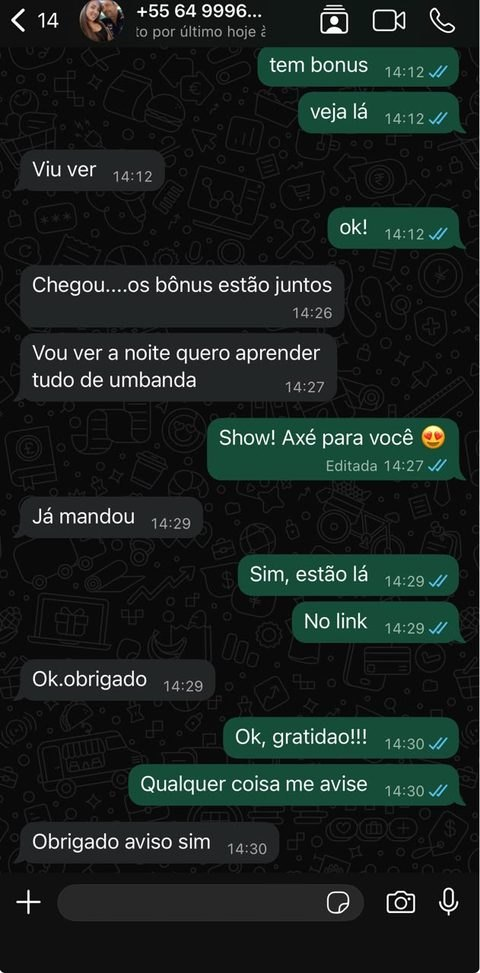
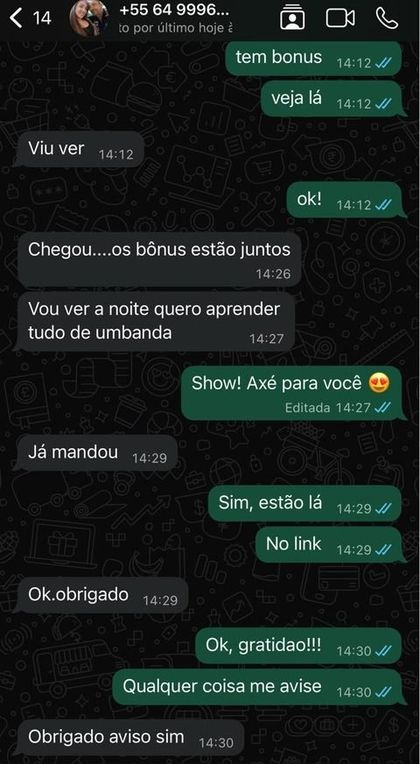
Tira o carrossel repetido, encolhe os prints e liga a foto do rodapé
Os depoimentos apareciam na tela de resultado e de novo na tela seguinte,
embaixo do vídeo. Ficam só embaixo do vídeo, que foi onde se pediu.

Os prints ocupavam cerca de 730 px de altura cada e dominavam a tela.
Foram cortados no topo e na base (barra de status e barra de digitação,
corte contíguo, nada do meio da conversa saiu) e reduzidos para 420 px de
largura: 1,35 MB -> 159 KB. Na página passam a ter altura fixa de 340 px,
o que também deixa todos os slides do mesmo tamanho; o slide caiu de
~730 px para ~390 px.

Como a imagem menor sacrifica leitura, tocar no print abre a conversa em
tela cheia, com fechamento por toque, pelo × ou por Esc.

A foto do rodapé entrou: recorte quadrado no rosto, 200x200, 15 KB, a
partir do arquivo enviado (que veio duplicado; ficou só a versão tratada).
O avatar neutro segue como reserva caso o arquivo suma.

Claude-Session: https://claude.ai/code/session_01ULSshYHbGJui3qnXqbsBW1

diff --git a/index.html b/index.html
@@ -34,7 +34,7 @@
 
     // Foto do rodapé. Coloque o arquivo em img/ e confira o nome aqui.
     // Se não existir, entra um avatar neutro no lugar.
-    FOTO_AUTORA: "img/helena.png",
+    FOTO_AUTORA: "img/helena.jpg",
 
     // Vídeo de prévia do app, hospedado no próprio projeto (pasta video/).
     VIDEO_APP: "video/app-mapa-mental.mp4",
@@ -334,9 +334,19 @@
   .car-track::-webkit-scrollbar{display:none}
   .car-item{flex:0 0 100%;min-width:0;scroll-snap-align:start}
   .car-item .testi{margin-bottom:0}
+  /* altura fixa deixa todos os slides do mesmo tamanho; o print inteiro
+     abre em tela cheia ao toque, então nada fica ilegível */
   .car-print{background:var(--surface);border:1px solid var(--line);border-radius:14px;
-    overflow:hidden;box-shadow:var(--shadow-sm)}
-  .car-print img{width:100%;display:block}
+    overflow:hidden;box-shadow:var(--shadow-sm);width:fit-content;max-width:100%;
+    margin:0 auto;position:relative;cursor:zoom-in}
+  .car-print img{display:block;max-height:340px;width:auto;max-width:100%}
+  .car-hint{text-align:center;font-size:11px;color:var(--faint);font-weight:700;margin:4px 0 0;opacity:.85}
+  .lbox{position:fixed;inset:0;z-index:60;background:rgba(0,0,0,.92);display:flex;
+    align-items:center;justify-content:center;padding:16px;cursor:zoom-out}
+  .lbox img{max-width:100%;max-height:100%;border-radius:10px;display:block}
+  .lbox-x{position:absolute;top:12px;right:14px;width:38px;height:38px;border-radius:50%;
+    border:none;background:rgba(255,255,255,.18);color:#fff;font-size:19px;font-weight:900;
+    cursor:pointer;line-height:1;padding:0}
   .car-cap{text-align:center;font-size:12.5px;color:var(--faint);font-weight:700;margin:8px 0 0}
   .car-dots{display:flex;gap:7px;justify-content:center;align-items:center;margin-top:11px}
   .car-dot{width:8px;height:8px;padding:0;border:none;border-radius:50%;background:var(--line);
@@ -647,7 +657,8 @@
         inner='<div class="car-print"><img src="'+esc(d.print)+'" loading="lazy"'+
           ' alt="Depoimento de '+esc(d.nome||"aluno")+' em '+esc(d.local||"mensagem")+'"></div>'+
           (d.texto?testiCard(d,true):"")+
-          (d.nome?'<p class="car-cap">'+esc(d.nome)+(d.local?' · '+esc(d.local):'')+'</p>':"");
+          (d.nome?'<p class="car-cap">'+esc(d.nome)+(d.local?' · '+esc(d.local):'')+'</p>':"")+
+          '<p class="car-hint">🔍 toque para ampliar</p>';
       } else {
         inner=testiCard(d,false);
       }
@@ -663,9 +674,31 @@
       '<div class="carousel"><div class="car-track" id="carTrack">'+slides+'</div>'+nav+'</div></div>';
   }
 
+  // print em tela cheia, para quem quiser ler a conversa toda
+  function abrirLightbox(src,alt){
+    var box=document.createElement("div");
+    box.className="lbox";
+    box.innerHTML='<button class="lbox-x" aria-label="Fechar">×</button>'+
+      '<img src="'+esc(src)+'" alt="'+esc(alt)+'">';
+    function fechar(){ if(box.parentNode) box.parentNode.removeChild(box);
+      document.removeEventListener("keydown",aoTeclar); }
+    function aoTeclar(e){ if(e.key==="Escape") fechar(); }
+    box.addEventListener("click",fechar);
+    document.addEventListener("keydown",aoTeclar);
+    document.body.appendChild(box);
+  }
+
   function initCarrossel(){
     var track=document.getElementById("carTrack"); if(!track) return;
     var wrap=track.parentNode;
+
+    [].slice.call(track.querySelectorAll(".car-print")).forEach(function(pr){
+      pr.addEventListener("click",function(e){
+        e.stopPropagation();
+        var im=pr.querySelector("img"); if(!im) return;
+        abrirLightbox(im.getAttribute("src"), im.getAttribute("alt")||"");
+      });
+    });
 
     // print que não carrega dá lugar ao depoimento em texto
     [].slice.call(track.querySelectorAll(".car-print img")).forEach(function(im){
@@ -673,7 +706,8 @@
         var item=im.closest(".car-item"); if(!item) return;
         var pr=item.querySelector(".car-print"), tx=item.querySelector(".testi");
         if(pr) pr.style.display="none";
-        var cap=item.querySelector(".car-cap");
+        var cap=item.querySelector(".car-cap"), hint=item.querySelector(".car-hint");
+        if(hint) hint.style.display="none";
         if(tx){ tx.style.display=""; if(cap) cap.style.display="none"; }
         else item.style.display="none";
       }
@@ -863,11 +897,10 @@
       '<p class="lead">'+state.tier.d+'</p>'+
       mirrorText()+
       diagnostico()+
-      proof("Quem já está estudando com o material")+
+      // sem depoimentos aqui: eles aparecem na tela seguinte, embaixo do vídeo
       guideLine("Preparei o caminho ideal para o seu perfil...")+
       '<button class="btn btn-gold pulse-cta" data-act="next">Quero chegar ao próximo nível <span aria-hidden="true">→</span></button>'+
       '</div>';
-    initCarrossel();
     var target=state.displayScore;
     var ring=document.getElementById("ring");
     var numEl=document.getElementById("scoreNum");

diff --git a/MIDIA.md b/MIDIA.md
@@ -5,16 +5,25 @@ Todos os caminhos são configurados no bloco `QUIZ_CONFIG`, no topo do `index.ht
 
 ---
 
-## 1. Arquivos que FALTAM no repositório
+## 1. Arquivos locais ✅
 
-Estes dois são chamados pelo código mas não existem aqui. Precisam ser enviados por você.
+Nada mais falta. Todos os arquivos que o código chama estão no repositório.
 
-| Arquivo | Onde aparece | Situação hoje |
+| Arquivo | Onde aparece | Tamanho |
 |---|---|---|
-| `img/helena.png` | Foto no rodapé, "Conteúdo de Mãe Helena de Oxóssi" | **Ausente** → entra um avatar cinza neutro |
+| `audio/ori-background.mp3` | Música de fundo (botão 🔊 no topo) | 3,3 MB |
+| `video/app-mapa-mental.mp4` | Prévia do app, na tela "promessa" | 8,4 MB |
+| `img/app-mapa-mental-capa.jpg` | Capa do vídeo | 49 KB |
+| `img/helena.jpg` | Foto no rodapé | 15 KB |
+| `img/depoimentos/1..4.jpg` | Carrossel de depoimentos | 159 KB no total |
 
-É o único arquivo que ainda falta. Basta soltá-lo em `img/` com esse nome, ou
-ajustar `FOTO_AUTORA` no `QUIZ_CONFIG` se o nome for outro.
+A foto do rodapé é uma imagem gerada por IA (Google Gemini), recortada em
+quadrado no rosto e reduzida a 200×200, já que é exibida num círculo de 56 px.
+O original enviado tinha 896×1200 e 2,3 MB, e veio duplicado; ficou só a versão
+tratada. Se um dia entrar uma foto real, basta substituir `img/helena.jpg`.
+
+Se o arquivo da foto sumir, o rodapé volta sozinho para um avatar cinza neutro.
+Se o áudio sumir, o botão de música some. Nada quebra a página.
 
 ---
 
@@ -145,9 +154,18 @@ São **4 prints**, já no lugar:
 | `img/depoimentos/3.jpg` | WhatsApp — "Chegou… os bônus estão juntos" |
 | `img/depoimentos/4.jpg` | Instagram — Débora (conversa de pré-venda) |
 
-Chegaram como PNG somando 1,35 MB; convertidos para JPEG ficaram em **292 KB**,
-sem perda visível. As dimensões originais foram mantidas (nenhum passava de
-720 px de largura).
+Chegaram como PNG somando 1,35 MB. Foram convertidos para JPEG, cortados no
+topo e na base para tirar barra de status e barra de digitação, e reduzidos para
+420 px de largura: **1,35 MB → 159 KB**. O corte é contíguo, ou seja, nenhum
+trecho do meio da conversa saiu.
+
+Na página cada print é limitado a 340 px de altura, o que deixa todos os slides
+do mesmo tamanho (~390 px). Antes disso, um slide chegava a 730 px de altura e
+dominava a tela. Quem quiser ler a conversa inteira toca na imagem e ela abre em
+tela cheia; fecha no toque, no × ou com Esc.
+
+O carrossel aparece **uma vez só** antes da oferta, embaixo do vídeo. A tela de
+resultado, que vem logo antes, não repete mais os depoimentos.
 
 Cada item aceita duas formas:
 
